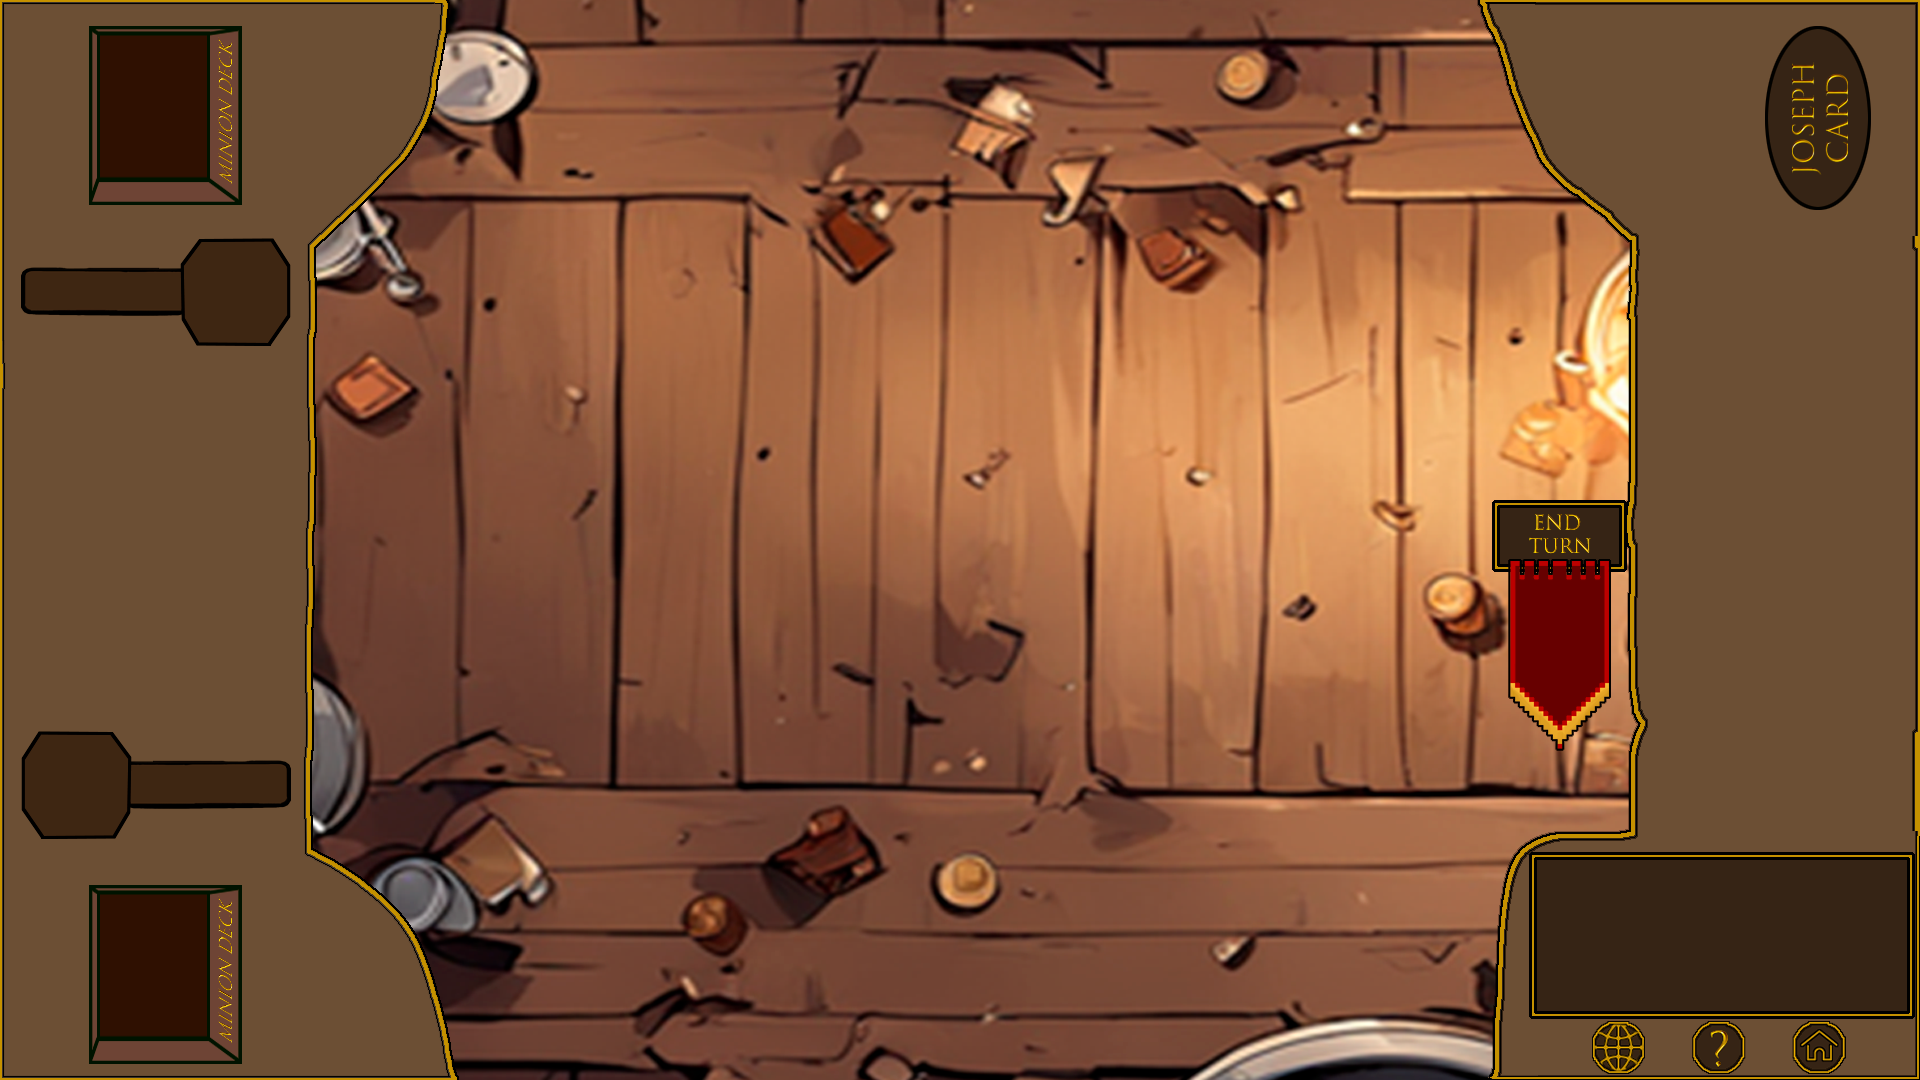
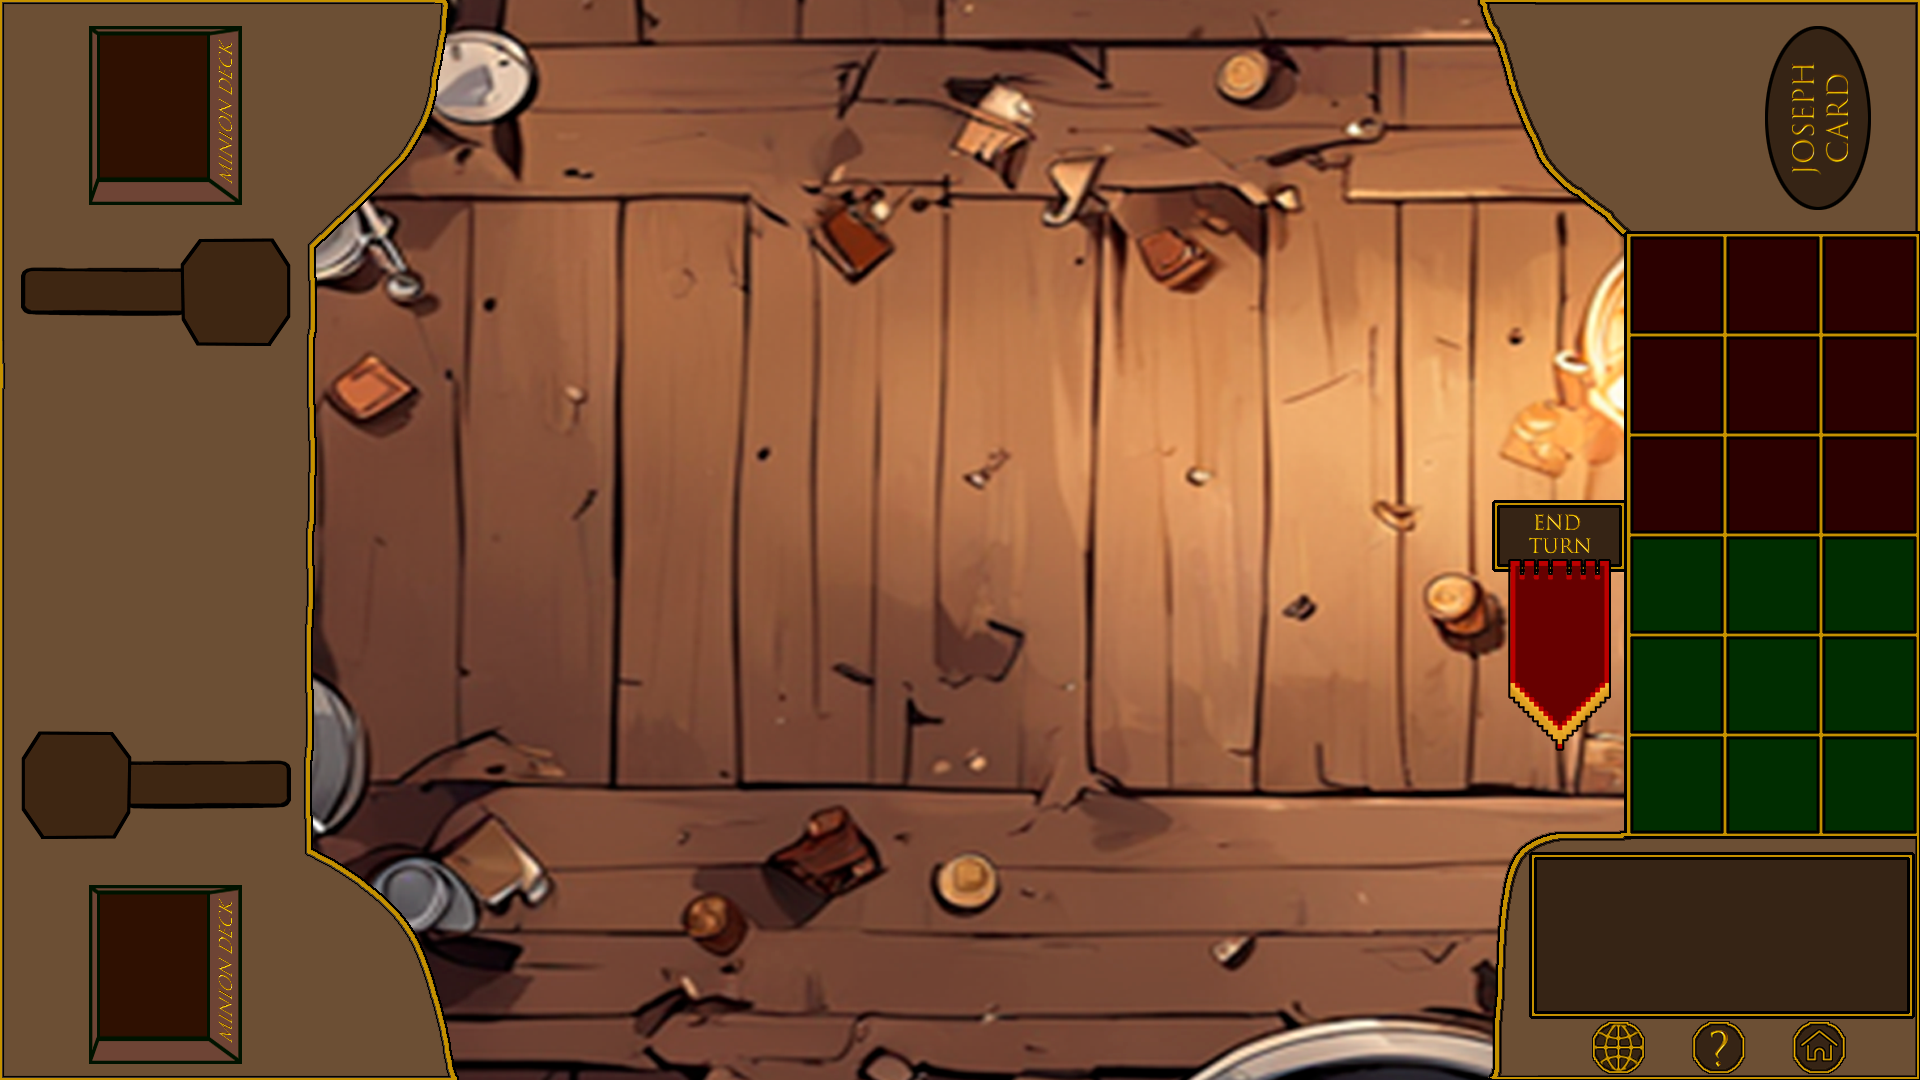
[WOUN-88] ADD - add to renderBoard function new elements to render

Changed region(s): [[0.8438, 0.2139, 1.0, 0.7944]]

diff --git a/src/Game.js b/src/Game.js
@@ -94,10 +94,58 @@ export default class Game{
     
     renderBoard(images){
         
+        let image = images[ImageTypes.BOARD_IMAGE][BoardId.BOARD];
+        let xPos = 0;
+        let yPos = 0;
+
         globals.ctx.drawImage(
 
-            images[ImageTypes.BOARD_IMAGE][BoardId.BOARD],
-            0, 0,
+            image, xPos, yPos
+        )
+
+        image = images[ImageTypes.BOARD_IMAGE][BoardId.EVENT_DECK_FULL];
+        xPos = 25;
+        yPos = globals.canvas.height / 2 - image.height / 2;
+
+        globals.ctx.drawImage(
+
+            image, xPos, yPos
+        )
+
+        image = images[ImageTypes.BOARD_IMAGE][BoardId.MINION_DECK_FULL];
+        xPos = 75;
+        yPos = 12;
+
+        globals.ctx.drawImage(
+
+            image, xPos, yPos
+        )
+
+        image = images[ImageTypes.BOARD_IMAGE][BoardId.MINION_DECK_HALF];
+        xPos = 75;
+        yPos = 872;
+
+        globals.ctx.drawImage(
+
+            image, xPos, yPos
+        )
+
+        image = images[ImageTypes.BOARD_IMAGE][BoardId.GEM];
+        xPos = 295;
+        yPos = 55;
+
+        globals.ctx.drawImage(
+
+            image, xPos, yPos
+        )
+
+        image = images[ImageTypes.BOARD_IMAGE][BoardId.GEM];
+        xPos = 295;
+        yPos = 925;
+
+        globals.ctx.drawImage(
+
+            image, xPos, yPos
         )
     }
         
